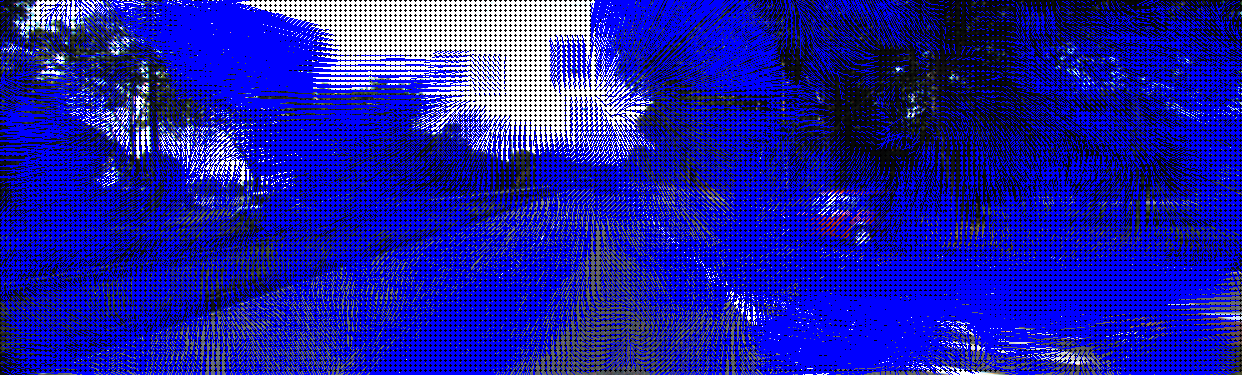
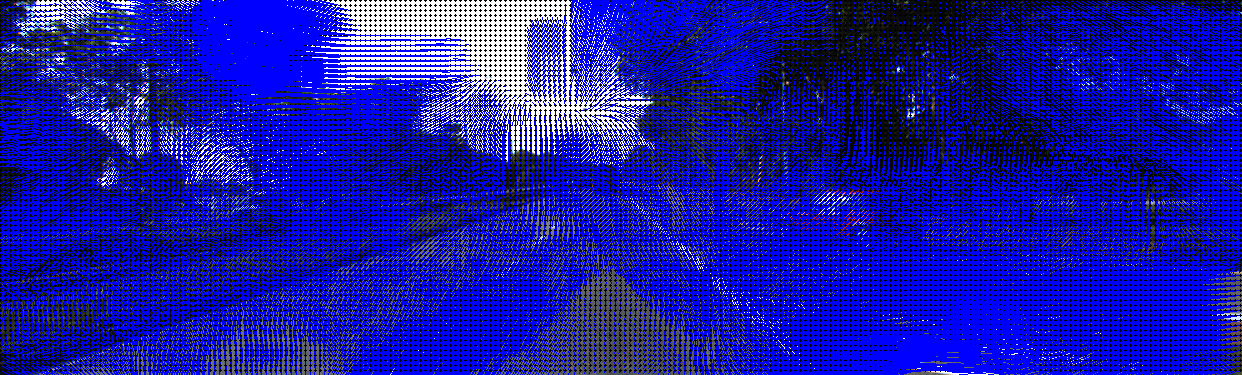
update

Changed region(s): [[0.0, 0.0, 1.0, 1.0]]

diff --git a/DenseOpticalFlow/FarnebackOF/FarnebackOF.cpp b/DenseOpticalFlow/FarnebackOF/FarnebackOF.cpp
@@ -14,14 +14,14 @@ int main()
 	Mat last_frame, next_frame;
 	Mat flow_frame;
 
-	last_frame = imread("image/leftimage/000146_10.png");
-	next_frame = imread("image/leftimage/000146_11.png");
+	last_frame = imread("image/leftimage/000045_10.png");
+	next_frame = imread("image/leftimage/000045_11.png");
 
 	Mat last_frame_gray, next_frame_gray;
 	cvtColor(last_frame, last_frame_gray, COLOR_BGR2GRAY);
 	cvtColor(next_frame, next_frame_gray, COLOR_BGR2GRAY);
 
-	calcOpticalFlowFarneback(last_frame_gray, next_frame_gray, flow_frame, 0.4, 1, 36, 2, 8, 1.2, 0);
+	calcOpticalFlowFarneback(last_frame_gray, next_frame_gray, flow_frame, 0.5, 1, 64, 2, 8, 1.6, 0);
 	for (int y = 0; y < next_frame.rows; y += 5)
 	{
 		for (int x = 0; x < next_frame.cols; x += 5)
@@ -35,7 +35,7 @@ int main()
 	namedWindow("prew", WINDOW_AUTOSIZE);
 	imshow("prew", next_frame);
 
-	imwrite("image/resimage/000146_Farneback.png", next_frame);
+	imwrite("image/resimage/000045_Farneback-64.png", next_frame);
 
 
 	return 0;
